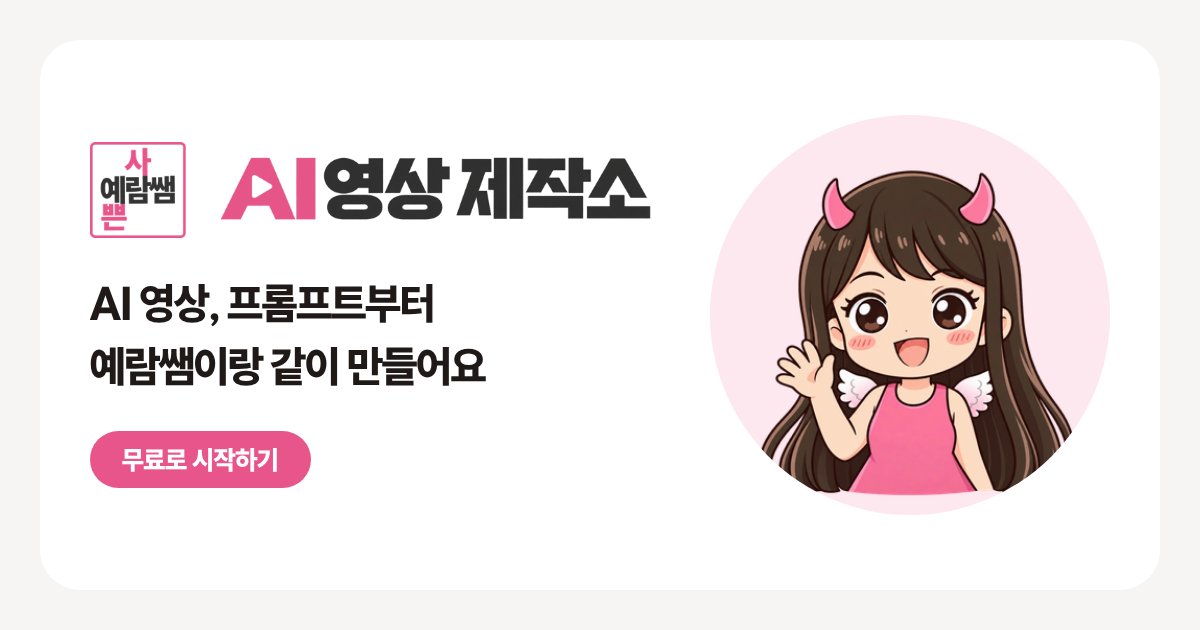
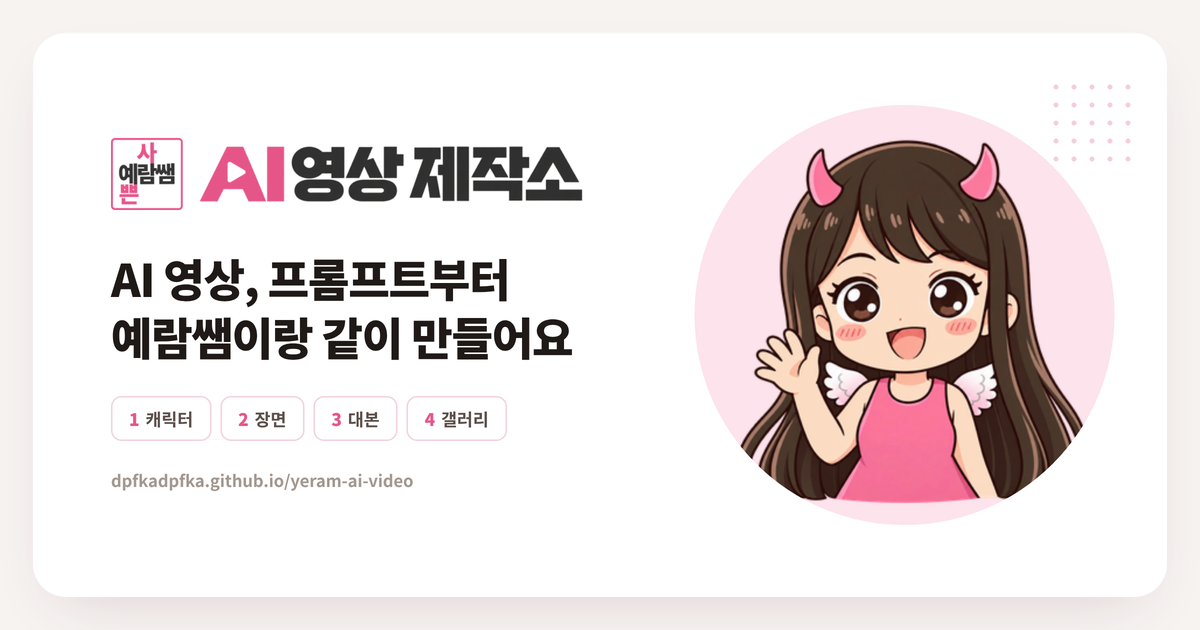
홈페이지 미리보기 썸네일 교체
Claude-Session: https://claude.ai/code/session_011SY1LnAwjdDfQizrCYJ2zB

diff --git a/index.html b/index.html
@@ -1,5 +1,5 @@
 <!doctype html>
-<html lang="ko"><head><meta charset="utf-8"><meta name="viewport" content="width=device-width,initial-scale=1,viewport-fit=cover"><link rel="icon" type="image/png" href="assets/favicon.png?v=yr1"><link rel="apple-touch-icon" href="assets/apple-touch-icon.png?v=yr1"><title>예람쌤 AI 영상 제작소</title><meta name="description" content="질문에 답하면 AI 영상용 캐릭터·대본·이미지 프롬프트를 만들어 주는 무료 도구"><meta property="og:type" content="website"><meta property="og:url" content="https://dpfkadpfka.github.io/yeram-ai-video/"><meta property="og:title" content="예람쌤 AI 영상 제작소"><meta property="og:description" content="질문에 답하면 AI 영상용 캐릭터·대본·이미지 프롬프트가 완성돼요."><meta property="og:image" content="https://dpfkadpfka.github.io/yeram-ai-video/og.png?v=2"><meta property="og:image:width" content="1200"><meta property="og:image:height" content="630"><meta name="twitter:card" content="summary_large_image"><meta name="theme-color" content="#E8558A"></head><body><title>예람쌤 AI 영상 제작소</title>
[1 lines of base64/hex data omitted]
 <meta name="claude:viewport-fit-sides" content="cover">
 <style>
 @font-face{font-family:'Freesentation';font-weight:800;font-style:normal;font-display:swap;src:url(assets/b64/2ae320a722d7.woff2) format('woff2')}
@@ -4725,7 +4725,7 @@ document.addEventListener("click",e=>{if(document.body.classList.contains("fsope
 document.addEventListener("click",e=>{if(e.target.closest("[data-cresume]")){cQuick.innerHTML="";cme("이어서 보기");document.body.classList.remove("cfresh");if(cv("act")&&cv("place")&&cv("style"))cDone();else cAdvance0()}else if(e.target.closest("[data-cnew]")){cStart(true)}});
 $("#pdGo").addEventListener("click",()=>{document.body.classList.remove("cpre");try{$("#cSay").focus({preventScroll:true})}catch(e){}});
 
-document.addEventListener("click",e=>{if(e.target.closest("[data-models]")){setStage("models");window.scrollTo({top:0});const f=$("#modelsFrame");if(!f.src)f.src=(window.SITE5?"../":"")+"models/index.html?v=1793263452"+(MDL_OLD?"&old=1":"")}});
+document.addEventListener("click",e=>{if(e.target.closest("[data-models]")){setStage("models");window.scrollTo({top:0});const f=$("#modelsFrame");if(!f.src)f.src=(window.SITE5?"../":"")+"models/index.html?v=1793523623"+(MDL_OLD?"&old=1":"")}});
 /* 3단계: 장면 프롬프트 (이야기 → 씬 → 이미지·영상) */
 const SC3={total:"30",ratio:"16:9",sec:"6",tg:{cam:true,view:true,sfx:true,voice:false,bgm:false}};
 const STYLE_EN={"실사 영화": "photorealistic live-action film still", "3D 애니메이션": "3D animated feature film style with soft subsurface shading", "실사 3D": "hyper-realistic 3D render", "일본 애니": "Japanese anime film style with hand-painted backgrounds", "2D 웹툰": "Korean webtoon style with clean line art and cel shading", "웹툰": "Korean webtoon style with clean line art and cel shading", "디테일 일러스트": "detailed storybook illustration", "수채화": "soft watercolor illustration with paper texture", "클레이": "claymation stop-motion style with handmade clay texture", "플랫 일러스트": "flat vector illustration with simple shapes", "치비": "cute chibi style with big head and small body", "픽셀 아트": "16-bit pixel art", "3D 치비": "cute 2-3 head-tall 3D chibi with soft matte materials and gentle animated-film lighting, no glossy plastic shine", "종이공예": "layered paper-cut craft made of real cut colored paper pieces with visible paper fibers, cut edges and soft layered shadows", "레트로 애니": "hand-drawn late-1980s to early-1990s cel animation with delicate line art, almond-shaped eyes, broad hair highlights and restrained two-tone cel shading, no sepia filter"};
@@ -5117,7 +5117,7 @@ function paintPgh(){const st=document.body.dataset.stage,P=PGH[st],h=$("#pgh");h
   if(h.dataset.st!==st){h.dataset.st=st;$("#pghHelp").hidden=true;$("#pghHelpB").setAttribute("aria-expanded","false")}}
 $("#pghHelp").addEventListener("click",e=>{if(e.target.closest(".hb-ok")){$("#pghHelp").hidden=true;$("#pghHelpB").setAttribute("aria-expanded","false")}});
 $("#pghHelpB").addEventListener("click",()=>{const hp=$("#pghHelp"),o=hp.hidden;hp.hidden=!o;$("#pghHelpB").setAttribute("aria-expanded",o)});
-$("#pghLink").addEventListener("click",e=>{e.preventDefault();const m=$("#mdlPop"),f=$("#mdlPopF");if(!f.src)f.src=(window.SITE5?"../":"")+"models/index.html?v=1793263452"+(MDL_OLD?"&old=1":"");m.hidden=false;document.body.style.overflow="hidden";$("#mdlPopX").focus()});
+$("#pghLink").addEventListener("click",e=>{e.preventDefault();const m=$("#mdlPop"),f=$("#mdlPopF");if(!f.src)f.src=(window.SITE5?"../":"")+"models/index.html?v=1793523623"+(MDL_OLD?"&old=1":"");m.hidden=false;document.body.style.overflow="hidden";$("#mdlPopX").focus()});
 document.addEventListener("click",e=>{const a=e.target.closest("[data-survey],[data-comcontest]");if(!a)return;e.preventDefault();const f=$("#svPopF"),wide=a.hasAttribute("data-comcontest");$("#svPopT").textContent=wide?"AI 공모전 모아보기":"강의 만족도 조사";if(f.getAttribute("src")!==a.href)f.src=a.href;document.querySelector(".svpop-c").classList.toggle("wide",wide);$("#svPop").hidden=false;document.body.style.overflow="hidden"});
 const svClose=()=>{try{$("#svPopF").src="about:blank"}catch(_){}$("#svPop").hidden=true;document.body.style.overflow="";if($("#svPopT").textContent==="영상 올리기")loadPadJson()};$("#svPopX").addEventListener("click",svClose);$("#svPop").addEventListener("click",e=>{if(e.target.id==="svPop")svClose()});document.addEventListener("keydown",e=>{if(e.key==="Escape"&&!$("#svPop").hidden)svClose()});
 const mdlClose=()=>{pauseAllMedia();$("#mdlPop").hidden=true;document.body.style.overflow=""};

diff --git a/studio/index.html b/studio/index.html
@@ -4725,7 +4725,7 @@ document.addEventListener("click",e=>{if(document.body.classList.contains("fsope
 document.addEventListener("click",e=>{if(e.target.closest("[data-cresume]")){cQuick.innerHTML="";cme("이어서 보기");document.body.classList.remove("cfresh");if(cv("act")&&cv("place")&&cv("style"))cDone();else cAdvance0()}else if(e.target.closest("[data-cnew]")){cStart(true)}});
 $("#pdGo").addEventListener("click",()=>{document.body.classList.remove("cpre");try{$("#cSay").focus({preventScroll:true})}catch(e){}});
 
-document.addEventListener("click",e=>{if(e.target.closest("[data-models]")){setStage("models");window.scrollTo({top:0});const f=$("#modelsFrame");if(!f.src)f.src="../models/index.html?v=1793263452"+(MDL_OLD?"&old=1":"")}});
+document.addEventListener("click",e=>{if(e.target.closest("[data-models]")){setStage("models");window.scrollTo({top:0});const f=$("#modelsFrame");if(!f.src)f.src="../models/index.html?v=1793523623"+(MDL_OLD?"&old=1":"")}});
 /* 3단계: 장면 프롬프트 (이야기 → 씬 → 이미지·영상) */
 const SC3={total:"30",ratio:"16:9",sec:"6",tg:{cam:true,view:true,sfx:true,voice:false,bgm:false}};
 const STYLE_EN={"실사 영화": "photorealistic live-action film still", "3D 애니메이션": "3D animated feature film style with soft subsurface shading", "실사 3D": "hyper-realistic 3D render", "일본 애니": "Japanese anime film style with hand-painted backgrounds", "2D 웹툰": "Korean webtoon style with clean line art and cel shading", "웹툰": "Korean webtoon style with clean line art and cel shading", "디테일 일러스트": "detailed storybook illustration", "수채화": "soft watercolor illustration with paper texture", "클레이": "claymation stop-motion style with handmade clay texture", "플랫 일러스트": "flat vector illustration with simple shapes", "치비": "cute chibi style with big head and small body", "픽셀 아트": "16-bit pixel art", "3D 치비": "cute 2-3 head-tall 3D chibi with soft matte materials and gentle animated-film lighting, no glossy plastic shine", "종이공예": "layered paper-cut craft made of real cut colored paper pieces with visible paper fibers, cut edges and soft layered shadows", "레트로 애니": "hand-drawn late-1980s to early-1990s cel animation with delicate line art, almond-shaped eyes, broad hair highlights and restrained two-tone cel shading, no sepia filter"};
@@ -5117,7 +5117,7 @@ function paintPgh(){const st=document.body.dataset.stage,P=PGH[st],h=$("#pgh");h
   if(h.dataset.st!==st){h.dataset.st=st;$("#pghHelp").hidden=true;$("#pghHelpB").setAttribute("aria-expanded","false")}}
 $("#pghHelp").addEventListener("click",e=>{if(e.target.closest(".hb-ok")){$("#pghHelp").hidden=true;$("#pghHelpB").setAttribute("aria-expanded","false")}});
 $("#pghHelpB").addEventListener("click",()=>{const hp=$("#pghHelp"),o=hp.hidden;hp.hidden=!o;$("#pghHelpB").setAttribute("aria-expanded",o)});
-$("#pghLink").addEventListener("click",e=>{e.preventDefault();const m=$("#mdlPop"),f=$("#mdlPopF");if(!f.src)f.src="../models/index.html?v=1793263452"+(MDL_OLD?"&old=1":"");m.hidden=false;document.body.style.overflow="hidden";$("#mdlPopX").focus()});
+$("#pghLink").addEventListener("click",e=>{e.preventDefault();const m=$("#mdlPop"),f=$("#mdlPopF");if(!f.src)f.src="../models/index.html?v=1793523623"+(MDL_OLD?"&old=1":"");m.hidden=false;document.body.style.overflow="hidden";$("#mdlPopX").focus()});
 document.addEventListener("click",e=>{const a=e.target.closest("[data-survey],[data-comcontest]");if(!a)return;e.preventDefault();const f=$("#svPopF"),wide=a.hasAttribute("data-comcontest");$("#svPopT").textContent=wide?"AI 공모전 모아보기":"강의 만족도 조사";if(f.getAttribute("src")!==a.href)f.src=a.href;document.querySelector(".svpop-c").classList.toggle("wide",wide);$("#svPop").hidden=false;document.body.style.overflow="hidden"});
 const svClose=()=>{try{$("#svPopF").src="about:blank"}catch(_){}$("#svPop").hidden=true;document.body.style.overflow="";if($("#svPopT").textContent==="영상 올리기")loadPadJson()};$("#svPopX").addEventListener("click",svClose);$("#svPop").addEventListener("click",e=>{if(e.target.id==="svPop")svClose()});document.addEventListener("keydown",e=>{if(e.key==="Escape"&&!$("#svPop").hidden)svClose()});
 const mdlClose=()=>{pauseAllMedia();$("#mdlPop").hidden=true;document.body.style.overflow=""};
